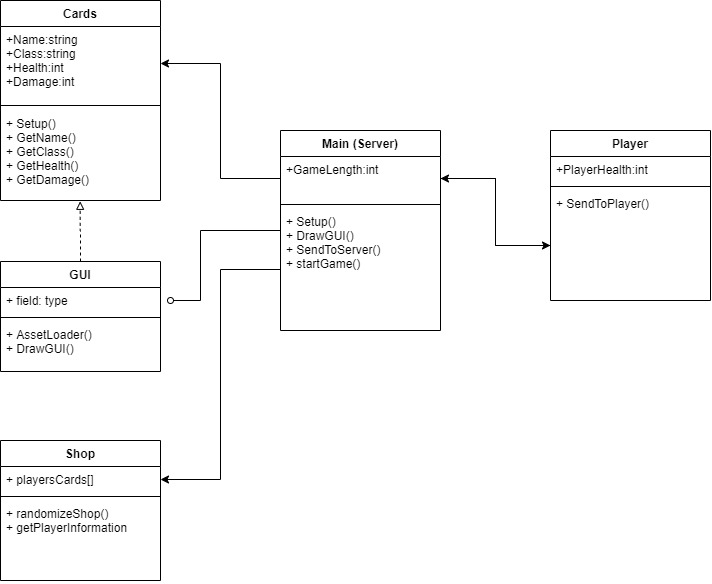
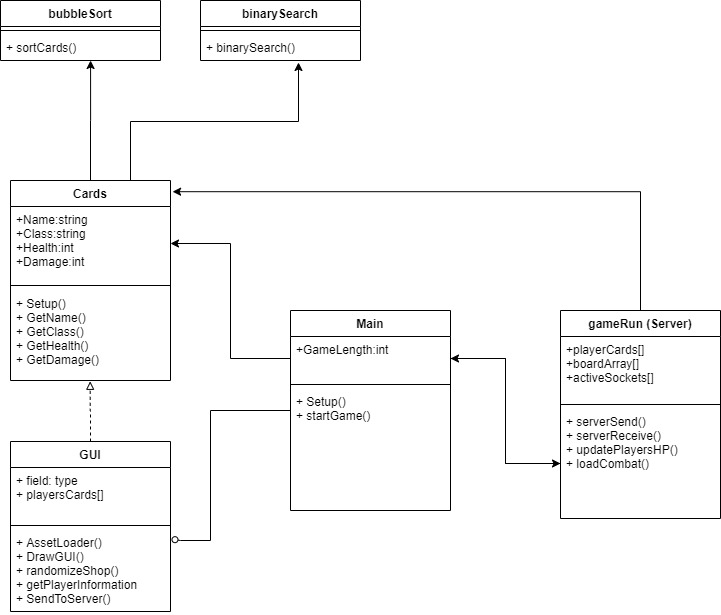
UML & fixed animation order

diff --git a/gui.py b/gui.py
@@ -57,7 +57,6 @@ def clientServerReceive():
         print("[SYSTEM]: Received enemy board from server")
         for c in range(5,10):
             if (boardArray[c] == ""):
-                cardPlaceStrHold = "cardPlace" + str(c)
                 cardPlaceStrHold = cards.Cards()
                 cardPlaceStrHold.searchData(str(splitMsg[c-4]))
                 playerCards[c].configure(image=Assets.cardImg[int(splitMsg[c-4])])
@@ -101,13 +100,13 @@ def serverSend(boardArray):
 
 def moveCard():
     while len(queueEvents) > 0:
-        if queueEvents[0][1]=="Player0":
+        if queueEvents[0][1]=="Player1":
             for i in range (11):
                 lengthAD = int(queueEvents[0][3])-int(queueEvents[0][5])
                 perMove = (lengthAD*120)/11
                 defaultCardX = -720-((int(queueEvents[0][3]) - 5) * 120)
                 playerCards[int(queueEvents[0][3])].place(y = 350-(i*8), x=defaultCardX+(i*perMove))
-                time.sleep(0.02)
+                time.sleep(0.5)
                 if i == 10:
                     cardObjects[int(queueEvents[0][3])].losehp(cardObjects[int(queueEvents[0][5])+5].get_damage())
                     cardObjects[int(queueEvents[0][5])+5].losehp(cardObjects[int(queueEvents[0][3])].get_damage())
@@ -117,24 +116,24 @@ def moveCard():
                 playerCards[int(queueEvents[0][3])].place(y = 270+(i*8), x=defaultCardX+(11*perMove)-(i*perMove))
                 if i == 10:
                     playerCards[int(queueEvents[0][3])].place(y=350, x=defaultCardX)
-                time.sleep(0.01)
+                time.sleep(0.5)
             queueEvents.pop(0)
             return
 
-        if queueEvents[0][1]=="Player1":
+        if queueEvents[0][1]=="Player0":
             for i in range (11):
                 lengthAD = int(queueEvents[0][3]) - int(queueEvents[0][5])
                 perMove = (lengthAD * 120) / 11
                 defaultCardX = 480 - ((int(queueEvents[0][3])+5) * 120)
                 playerCards[int(queueEvents[0][3])+5].place(y = 100+(i*8), x=defaultCardX+(i*perMove))
-                time.sleep(0.02)
+                time.sleep(0.5)
                 if i == 10:
                     cardObjects[int(queueEvents[0][3])+5].losehp(cardObjects[int(queueEvents[0][5])].get_damage())
                     cardObjects[int(queueEvents[0][5])].losehp(cardObjects[int(queueEvents[0][3])+5].get_damage())
                     displayGUI.updateCards(self="")
             for i in range (11):
                 playerCards[int(queueEvents[0][3])+5].place(y = 188-(i*8), x=defaultCardX+(11*perMove)-(i*perMove))
-                time.sleep(0.01)
+                time.sleep(0.5)
                 if i == 10:
                     playerCards[int(queueEvents[0][3])+5].place(y=100, x=defaultCardX)
             queueEvents.pop(0)
@@ -146,7 +145,6 @@ def shopBuy(shopNumber):
             if shopArray[shopNumber] == i:
                 for c in range(5):
                     if (boardArray[c] == ""):
-                        cardPlaceStrHold = "cardPlace" + str(c)
                         cardPlaceStrHold = cards.Cards()
                         cardPlaceStrHold.searchData(str(i))
                         playerCards[c].configure(image=Assets.cardImg[i])
@@ -213,7 +211,7 @@ class displayGUI():
         window.mainloop()
 
     def updateCards(self):
-        for i in range(len(cardObjects)): # PREV 10
+        for i in range(len(cardObjects)):
             if int(cardObjects[i].get_health())<1:
                 boardArray[i]=""
             if boardArray[i] != "":
@@ -223,8 +221,6 @@ class displayGUI():
 
     def setup(self):
         for i in range(10):
-            stringHolder = "cardHolder" + str(i)
-
             if i < 5:
                 stringHolder = tk.Button(window, width=105, height=185, image=CDunknownPT, fg="white", compound=tk.CENTER, command=lambda holder=i: cardSelect(1, holder))
                 playerCards.append(stringHolder)
@@ -233,7 +229,6 @@ class displayGUI():
                 playerCards.append(stringHolder)
 
         for i in range(5):
-            stringHolder = "ShopCard" + str(i)
             stringHolder = tk.Button(window, width=290, height=95, command=lambda holder=i: shopBuy(holder))
             shopCards.append(stringHolder)
         shopRandom()

diff --git a/gameRun.py b/gameRun.py
@@ -5,7 +5,6 @@ import cards
 playerCards = [[],[]]
 boardArray = []
 activeSockets = []
-acceptedSockets = []
 
 def serverSend(message):
     # Next 15 lines made with help from the lecture 7 powerpoint: "Lecture 7: Network Programming", by Jesper Rindom Jensen
